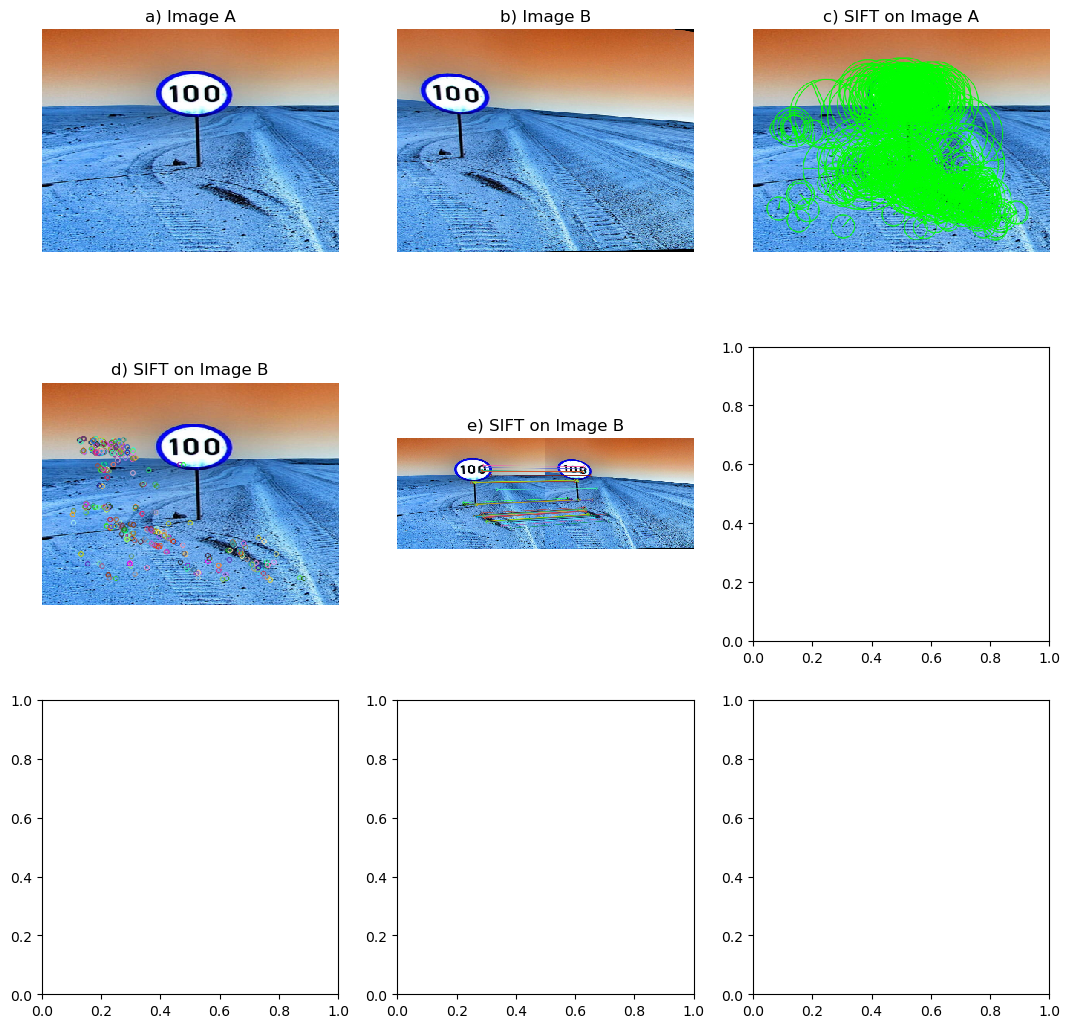
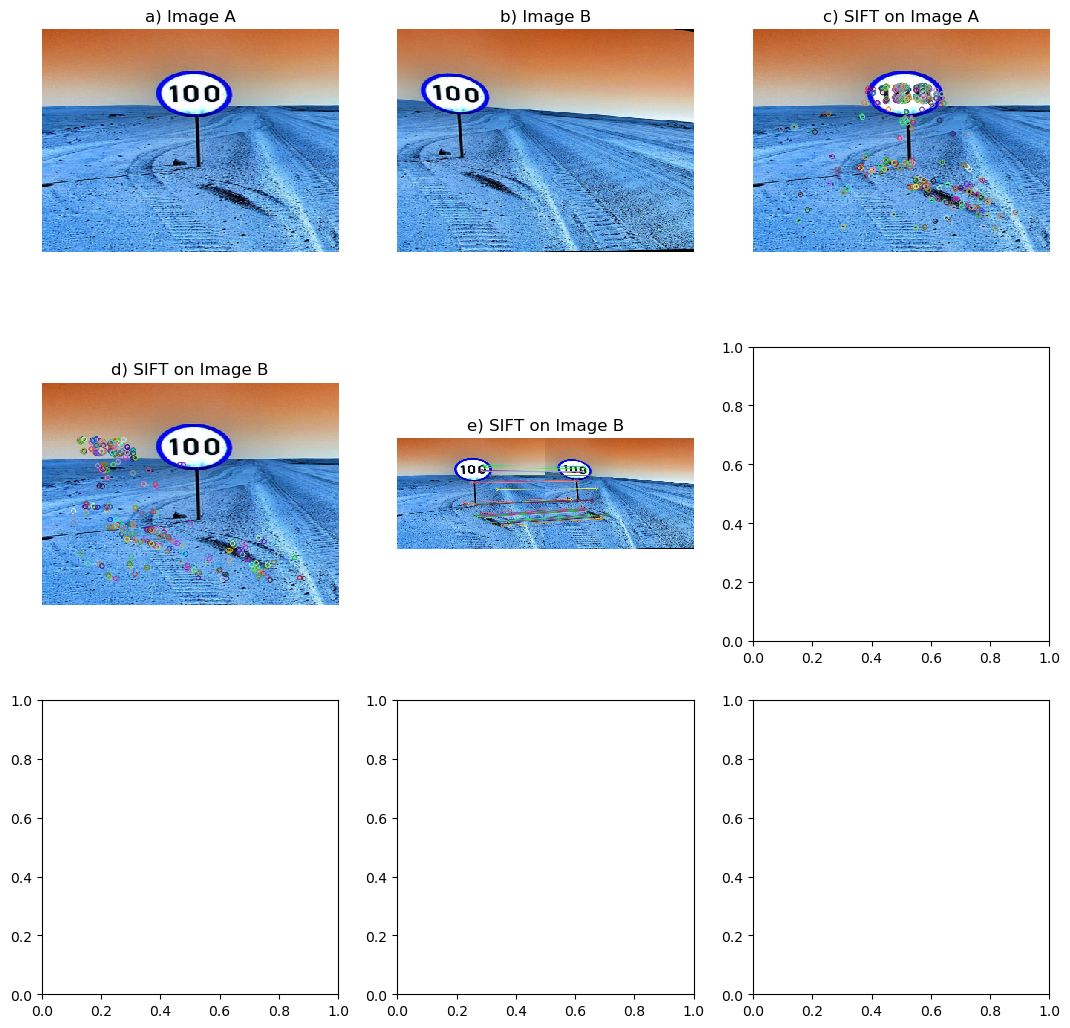
Output colourful SIFT keypoints

diff --git a/MidTerm/code/question2.py b/MidTerm/code/question2.py
@@ -18,17 +18,19 @@ imageB = cv2.imread(image_fileB)
 grayA = cv2.cvtColor(imageA, cv2.COLOR_BGR2GRAY)
 kpsA,descA = getKeyPoints(grayA,ORB)
 siftImgA = imageA.copy()
-cv2.drawKeypoints(siftImgA,kpsA,siftImgA,(0,255,0),cv2.DRAW_MATCHES_FLAGS_DRAW_RICH_KEYPOINTS)
+cv2.drawKeypoints(siftImgA,kpsA,siftImgA)
 cv2.imshow("SIFT Keypoints on Image A ",siftImgA)
 
 grayB = cv2.cvtColor(imageB, cv2.COLOR_BGR2GRAY)
 kpsB,descB = getKeyPoints(grayB,ORB)
 siftImgB = imageA.copy()
-cv2.drawKeypoints(siftImgB,kpsB,siftImgB,(0,0,255),cv2.DRAW_MATCHES_FLAGS_DRAW_RICH_KEYPOINTS)
+cv2.drawKeypoints(siftImgB,kpsB,siftImgB)
 cv2.imshow("SIFT Keypoints on Image B ",siftImgB)
 
 bf = cv2.BFMatcher(cv2.NORM_L1, crossCheck=True)
 matches = bf.match(descA,descB)
+
+# Sort the matches in asceding order, i.e. closest matches first. 
 matches = sorted(matches, key = lambda x:x.distance)
 
 matches_img = np.zeros(imageA.shape)

diff --git a/MidTerm/code/question1.py b/MidTerm/code/question1.py
@@ -8,7 +8,6 @@ image_file = '../data/Q1image.png'
 drive_downloader('11FwkdoLVlf27uCKXC4lj5T_xh7pYVdul',image_file)
 
 image = cv2.imread(image_file)
-print(image.shape)
 
 kernel = np.ones((20, 20), 'uint8')
 
